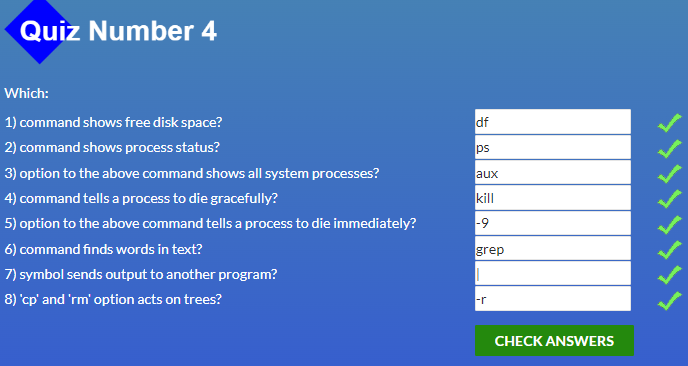
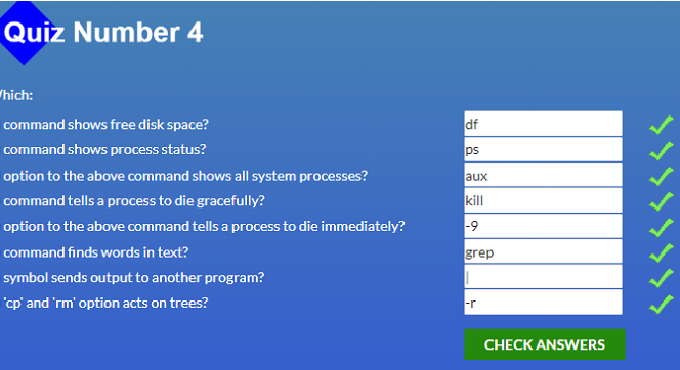
images width changed

diff --git a/README.md b/README.md
@@ -9,7 +9,7 @@ I have passed all nesessary tasks at [learngitbranching.js.org](https://learngit
 
 <details><summary>2. Linux CLI, and HTTP</summary>
 
-![Quiz1](https://github.com/yuliaMasliak/kottans-frontend/blob/main/task_linux_cli/quiz1.png width="100")
+![Quiz1](https://github.com/yuliaMasliak/kottans-frontend/blob/main/task_linux_cli/quiz1.png)
 ![Quiz2](https://github.com/yuliaMasliak/kottans-frontend/blob/main/task_linux_cli/quiz2.png)
 ![Quiz3](https://github.com/yuliaMasliak/kottans-frontend/blob/main/task_linux_cli/quiz3.png)
 ![Quiz4](https://github.com/yuliaMasliak/kottans-frontend/blob/main/task_linux_cli/quiz4.png)
